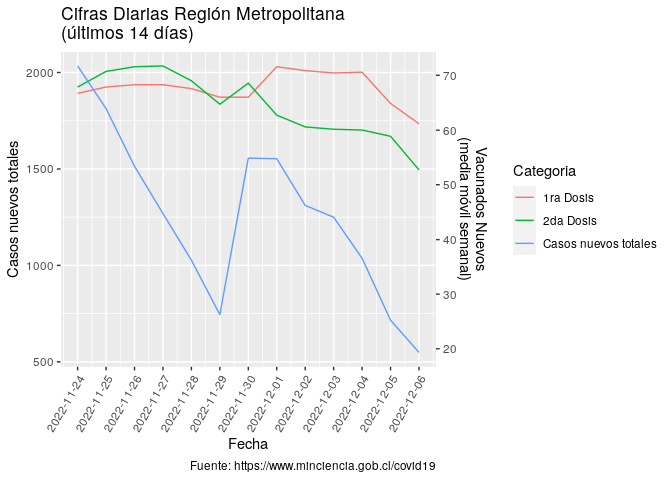
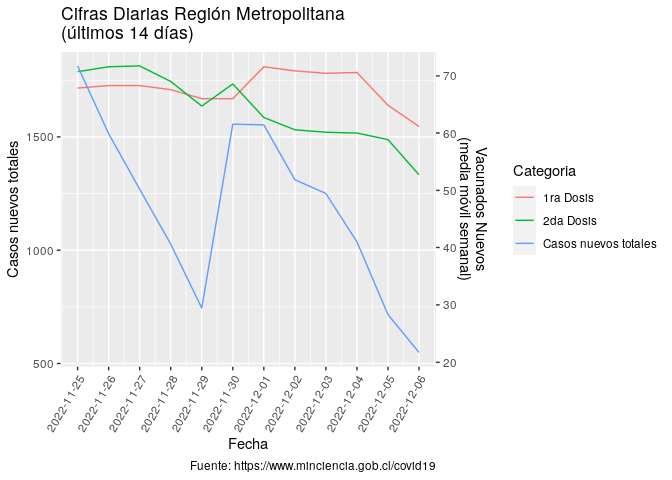
Re-build Rmarkdown files

diff --git a/README.md b/README.md
@@ -3,7 +3,7 @@
 
 Ejemplo de uso de total\_casos de COVID recopilados por el Ministerio de
 Ciencia de Chile <https://www.minciencia.gob.cl/covid19>. Última
-actualización: 2022-12-07
+actualización: 2022-12-08
 
 ## Visualización desde el comienzo de la pandemia
 
